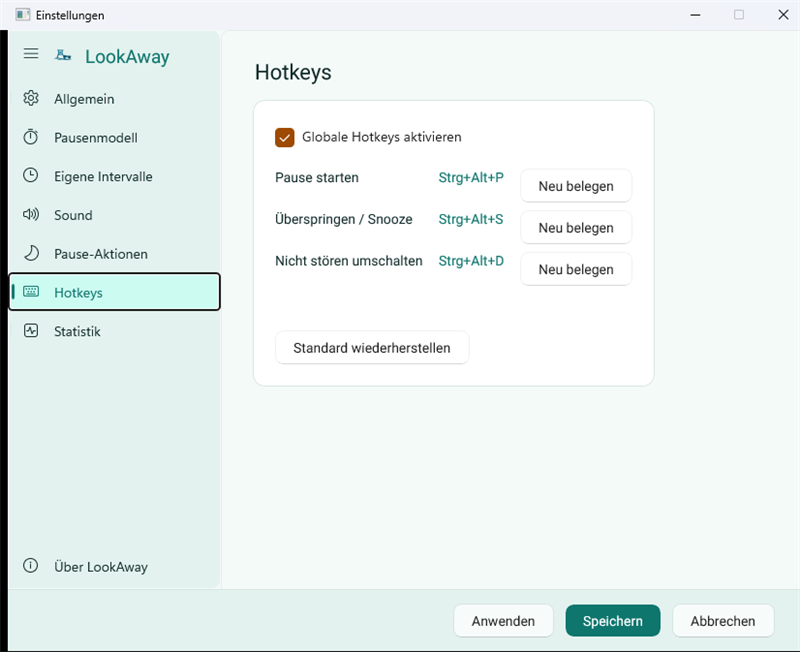
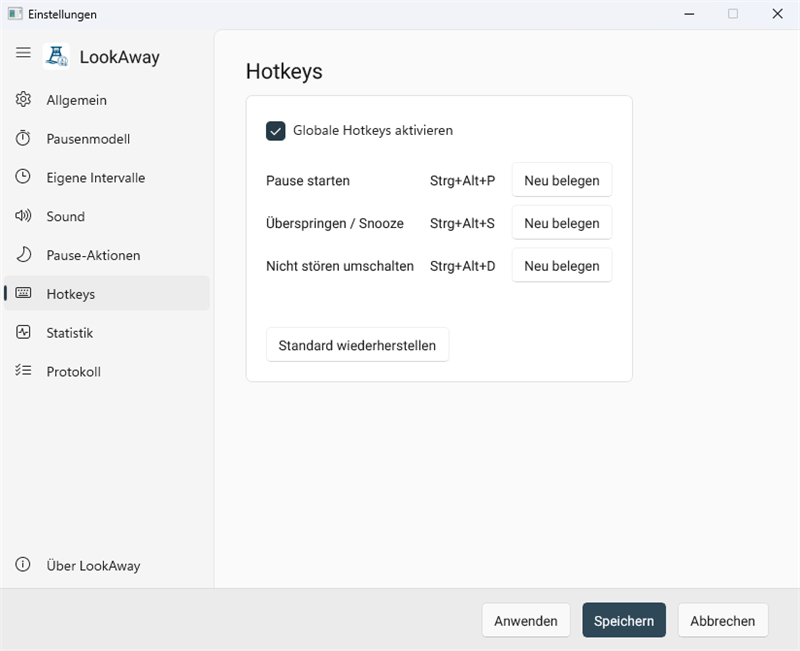
Aufnahmen der Oberfläche erneuert und ergänzt
Die abgelegten Bilder zeigten einen älteren Stand der Oberfläche, und die
Statistik zeigte durchgehend Nullen — ein Bild des leeren Zustands belegt zwar,
dass die Funktion existiert, legt aber zugleich nahe, dass sie niemand benutzt.

Neu dabei sind der Pausen-Screen, die Erinnerung und die Pausenmodelle. Die
ersten beiden sind das, was man tatsächlich zu sehen bekommt, und fehlten
bisher vollständig.

tools/make-screenshots.ps1 nimmt die Bilder auf: portable Instanz mit
vorbereiteter Belegung, Einstellungsfenster über einen Zweitstart geöffnet, die
Bereiche über die Windows-Automatisierung durchgeschaltet. Der unsichtbare
Schattenrahmen der Fenster wird dabei abgeschnitten, sonst trägt jedes Bild
unten einen schwarzen Streifen.

diff --git a/docs/screenshots/README.md b/docs/screenshots/README.md
@@ -1,18 +1,65 @@
 # Screenshots
 
-Aufnahmen der Oberfläche für die READMEs. PNG, 800 px Breite, deutschsprachige Oberfläche.
+Aufnahmen der Oberfläche für die READMEs und die Projektseite. PNG, 800 px Breite,
+deutschsprachige Oberfläche, helles Erscheinungsbild.
 
 Vorhanden:
 
-- `settings.png` – Einstellungen, Bereich „Allgemein"
+- `break-screen.png` – der Pausen-Screen mit Ziel und Countdown
+- `reminder.png` – das Erinnerungsfenster mit den drei Aktionen
+- `break-models.png` – Pausenmodelle als Kacheln mit Suche und Filter
+- `statistics.png` – Statistik mit Tages-, Wochen- und Jahresansicht
+- `settings.png` – Einstellungen, Bereich „Allgemein" mit der Erscheinungsbild-Wahl
 - `hotkeys.png` – Einstellungen, Bereich „Hotkeys" mit der Neubelegung
-- `statistics.png` – Statistik-Ansicht (Zahlen einer frischen Installation)
 
-Nicht vorhanden:
+## Wie sie entstehen
 
-- Tray-Icon mit Tooltip und das Erinnerungsfenster. Beide erscheinen nur im laufenden Betrieb
-  und ließen sich nicht ohne Bedienung am Bildschirm auslösen. Sie werden nachgereicht, sobald
-  sie sich aufnehmen lassen — und nicht nachgestellt.
+`tools/make-screenshots.ps1` nimmt sie auf. Zwei Eigenheiten bestimmen den Ablauf:
 
-Aufgenommen wird das Fenster über `PrintWindow` aus seinem eigenen Puffer, nicht als
+Das Programm läuft als **Einzelinstanz** — ein zweiter Start übergibt an die laufende
+und beendet sich sofort. Genau das öffnet aber das Einstellungsfenster, und darüber
+kommt das Skript hinein, statt das Symbol im Infobereich zu bedienen.
+
+Aufgenommen wird über `PrintWindow` aus dem Fensterpuffer, **nicht** als
 Bildschirmausschnitt: Sonst landet alles mit im Bild, was zufällig davor liegt.
+
+**Der Rahmen muss weg.** `GetWindowRect` liefert die Fenstergrenzen einschließlich des
+unsichtbaren Schattenrahmens, den Windows um moderne Fenster legt — `PrintWindow` füllt
+ihn mit Schwarz, und das Bild bekommt unten einen 7 bis 13 px breiten schwarzen Streifen.
+Das Skript schneidet ihn über `DwmGetWindowAttribute` mit `DWMWA_EXTENDED_FRAME_BOUNDS`
+ab, also über die tatsächlich sichtbaren Grenzen, plus einen Pixel Sicherheitsabstand
+gegen den Mischpixel beim Skalieren. Ein Beschnitt nach „dunklen Randzeilen" wäre der
+falsche Weg: Er würde beim ganzflächig dunklen Pausen-Screen das halbe Bild wegnehmen.
+
+## Was in den Bildern steht
+
+Die Aufnahmen entstehen gegen eine **portable Instanz mit vorbereiteter Belegung**,
+nicht gegen eine Installation mit echten Daten — dort stünden persönliche Pausenzeiten
+im Bild. Die Belegung bildet einen normalen Verlauf ab: rund fünf bis sieben Pausen an
+einem Arbeitstag, gelegentlich eine übersprungene, verteilt über die Modelle, die
+jemand über die Monate ausprobiert hat. Keine Rekordwerte — ein Bild, das Bestleistung
+zeigt, wirbt gegen das Programm, weil niemand sie erreicht.
+
+`statistics.png` zeigt eine **vollständige Arbeitswoche** (Montag bis Freitag gefüllt,
+Wochenende leer). Das ist eine Belegung, kein mitgeschriebener Verlauf: Aufgenommen
+wurde an einem Dienstag, die übrigen Tage sind vorbelegt. Die Kachel „Heute" zeigt
+dagegen den Tag der Aufnahme. Wer die Bilder erneuert, entscheidet neu — eine Woche mit
+zwei Balken ist ehrlicher, eine volle Woche zeigt die Ansicht so, wie sie im Betrieb
+aussieht.
+
+## Pausen-Screen
+
+Das Pausenfenster füllt den Bildschirm und trägt damit dessen Seitenverhältnis — auf
+einem breiten Monitor ein flacher Streifen, in dem der Text bei 800 px Breite nicht mehr
+lesbar wäre. `break-screen.png` ist deshalb ein **mittiger Ausschnitt** im Format der
+übrigen Aufnahmen. Der Inhalt sitzt ohnehin in der Mitte; die abgeschnittene Fläche ist
+einfarbig.
+
+## Nicht vorhanden
+
+- Das Symbol im Infobereich samt Kurzinfo. Es lässt sich nicht ohne Bedienung am
+  Bildschirm auslösen und wird nachgereicht, sobald es sich aufnehmen lässt — und nicht
+  nachgestellt.
+- Die Protokoll-Ansicht. Aufnehmbar wäre sie, aber ihr Inhalt bestünde beim Aufnehmen
+  überwiegend aus Meldungen über den Zweitstart, mit dem das Skript das Fenster öffnet.
+  Das sagt über das Programm nichts aus, und ein passenderes Protokoll wäre gestellt.

diff --git a/README.fr.md b/README.fr.md
@@ -174,17 +174,29 @@ LookAway est sobre en données et fonctionne entièrement en local :
 
 ## Captures d'écran
 
-![Paramètres](docs/screenshots/settings.png)
+![Écran de pause](docs/screenshots/break-screen.png)
 
-*Paramètres – langue, démarrage automatique, pause automatique et départ automatique de la pause.*
+*L'écran de pause – recouvre l'écran, affiche l'objectif et un compte à rebours, se ferme avec **ÉCHAP**.*
 
-![Raccourcis](docs/screenshots/hotkeys.png)
+![Rappel](docs/screenshots/reminder.png)
 
-*Raccourcis globaux – chaque action peut être réattribuée à votre propre combinaison via « Neu belegen ».*
+*Le rappel – démarrer, reporter ou ignorer la pause ; sans clic, elle démarre d'elle-même.*
+
+![Modèles de pause](docs/screenshots/break-models.png)
+
+*Modèles de pause – en cartes avec recherche et filtres ; chacune indique quoi faire pendant la pause.*
 
 ![Statistiques](docs/screenshots/statistics.png)
 
 *Statistiques – pauses par jour, semaine et année, exportables en CSV.*
+
+![Paramètres](docs/screenshots/settings.png)
+
+*Paramètres – apparence, langue, démarrage automatique et pause automatique.*
+
+![Raccourcis](docs/screenshots/hotkeys.png)
+
+*Raccourcis globaux – chaque action peut être réattribuée à votre propre combinaison via « Neu belegen ».*
 
 Les captures montrent l'interface en allemand. D'autres captures sont rassemblées sous
 [`docs/screenshots/`](docs/screenshots/).

diff --git a/README.md b/README.md
@@ -168,17 +168,29 @@ LookAway ist datensparsam und arbeitet vollständig lokal:
 
 ## Screenshots
 
-![Einstellungen](docs/screenshots/settings.png)
+![Pausen-Screen](docs/screenshots/break-screen.png)
 
-*Einstellungen – Sprache, Autostart, Auto-Pause und automatischer Pausenstart.*
+*Der Pausen-Screen – verdeckt den Bildschirm, zeigt Ziel und Countdown, endet mit **ESC**.*
 
-![Hotkeys](docs/screenshots/hotkeys.png)
+![Erinnerung](docs/screenshots/reminder.png)
 
-*Globale Hotkeys – jede Aktion lässt sich über „Neu belegen" auf eine eigene Tastenkombination legen.*
+*Die Erinnerung – Pause starten, verschieben oder überspringen; ohne Klick beginnt sie von selbst.*
+
+![Pausenmodell](docs/screenshots/break-models.png)
+
+*Pausenmodelle – als Kacheln mit Suche und Filter; jede nennt, was in der Pause zu tun ist.*
 
 ![Statistik](docs/screenshots/statistics.png)
 
 *Statistik – Pausen pro Tag, Woche und Jahr, als CSV exportierbar.*
+
+![Einstellungen](docs/screenshots/settings.png)
+
+*Einstellungen – Erscheinungsbild, Sprache, Autostart und Auto-Pause.*
+
+![Hotkeys](docs/screenshots/hotkeys.png)
+
+*Globale Hotkeys – jede Aktion lässt sich über „Neu belegen" auf eine eigene Tastenkombination legen.*
 
 Weitere Aufnahmen liegen unter [`docs/screenshots/`](docs/screenshots/).
 

diff --git a/README.en.md b/README.en.md
@@ -163,17 +163,29 @@ LookAway is data-frugal and works entirely locally:
 
 ## Screenshots
 
-![Settings](docs/screenshots/settings.png)
+![Break screen](docs/screenshots/break-screen.png)
 
-*Settings – language, autostart, auto-pause and the automatic break start.*
+*The break screen – covers the display, shows the goal and a countdown, ends with **ESC**.*
 
-![Hotkeys](docs/screenshots/hotkeys.png)
+![Reminder](docs/screenshots/reminder.png)
 
-*Global hotkeys – every action can be bound to your own key combination via "Neu belegen".*
+*The reminder – start, postpone or skip the break; left untouched it starts by itself.*
+
+![Break models](docs/screenshots/break-models.png)
+
+*Break models – as cards with search and filters; each says what to do during that break.*
 
 ![Statistics](docs/screenshots/statistics.png)
 
 *Statistics – breaks per day, week and year, exportable as CSV.*
+
+![Settings](docs/screenshots/settings.png)
+
+*Settings – appearance, language, autostart and auto-pause.*
+
+![Hotkeys](docs/screenshots/hotkeys.png)
+
+*Global hotkeys – every action can be bound to your own key combination via "Neu belegen".*
 
 The screenshots show the German interface. Further captures are collected under
 [`docs/screenshots/`](docs/screenshots/).
